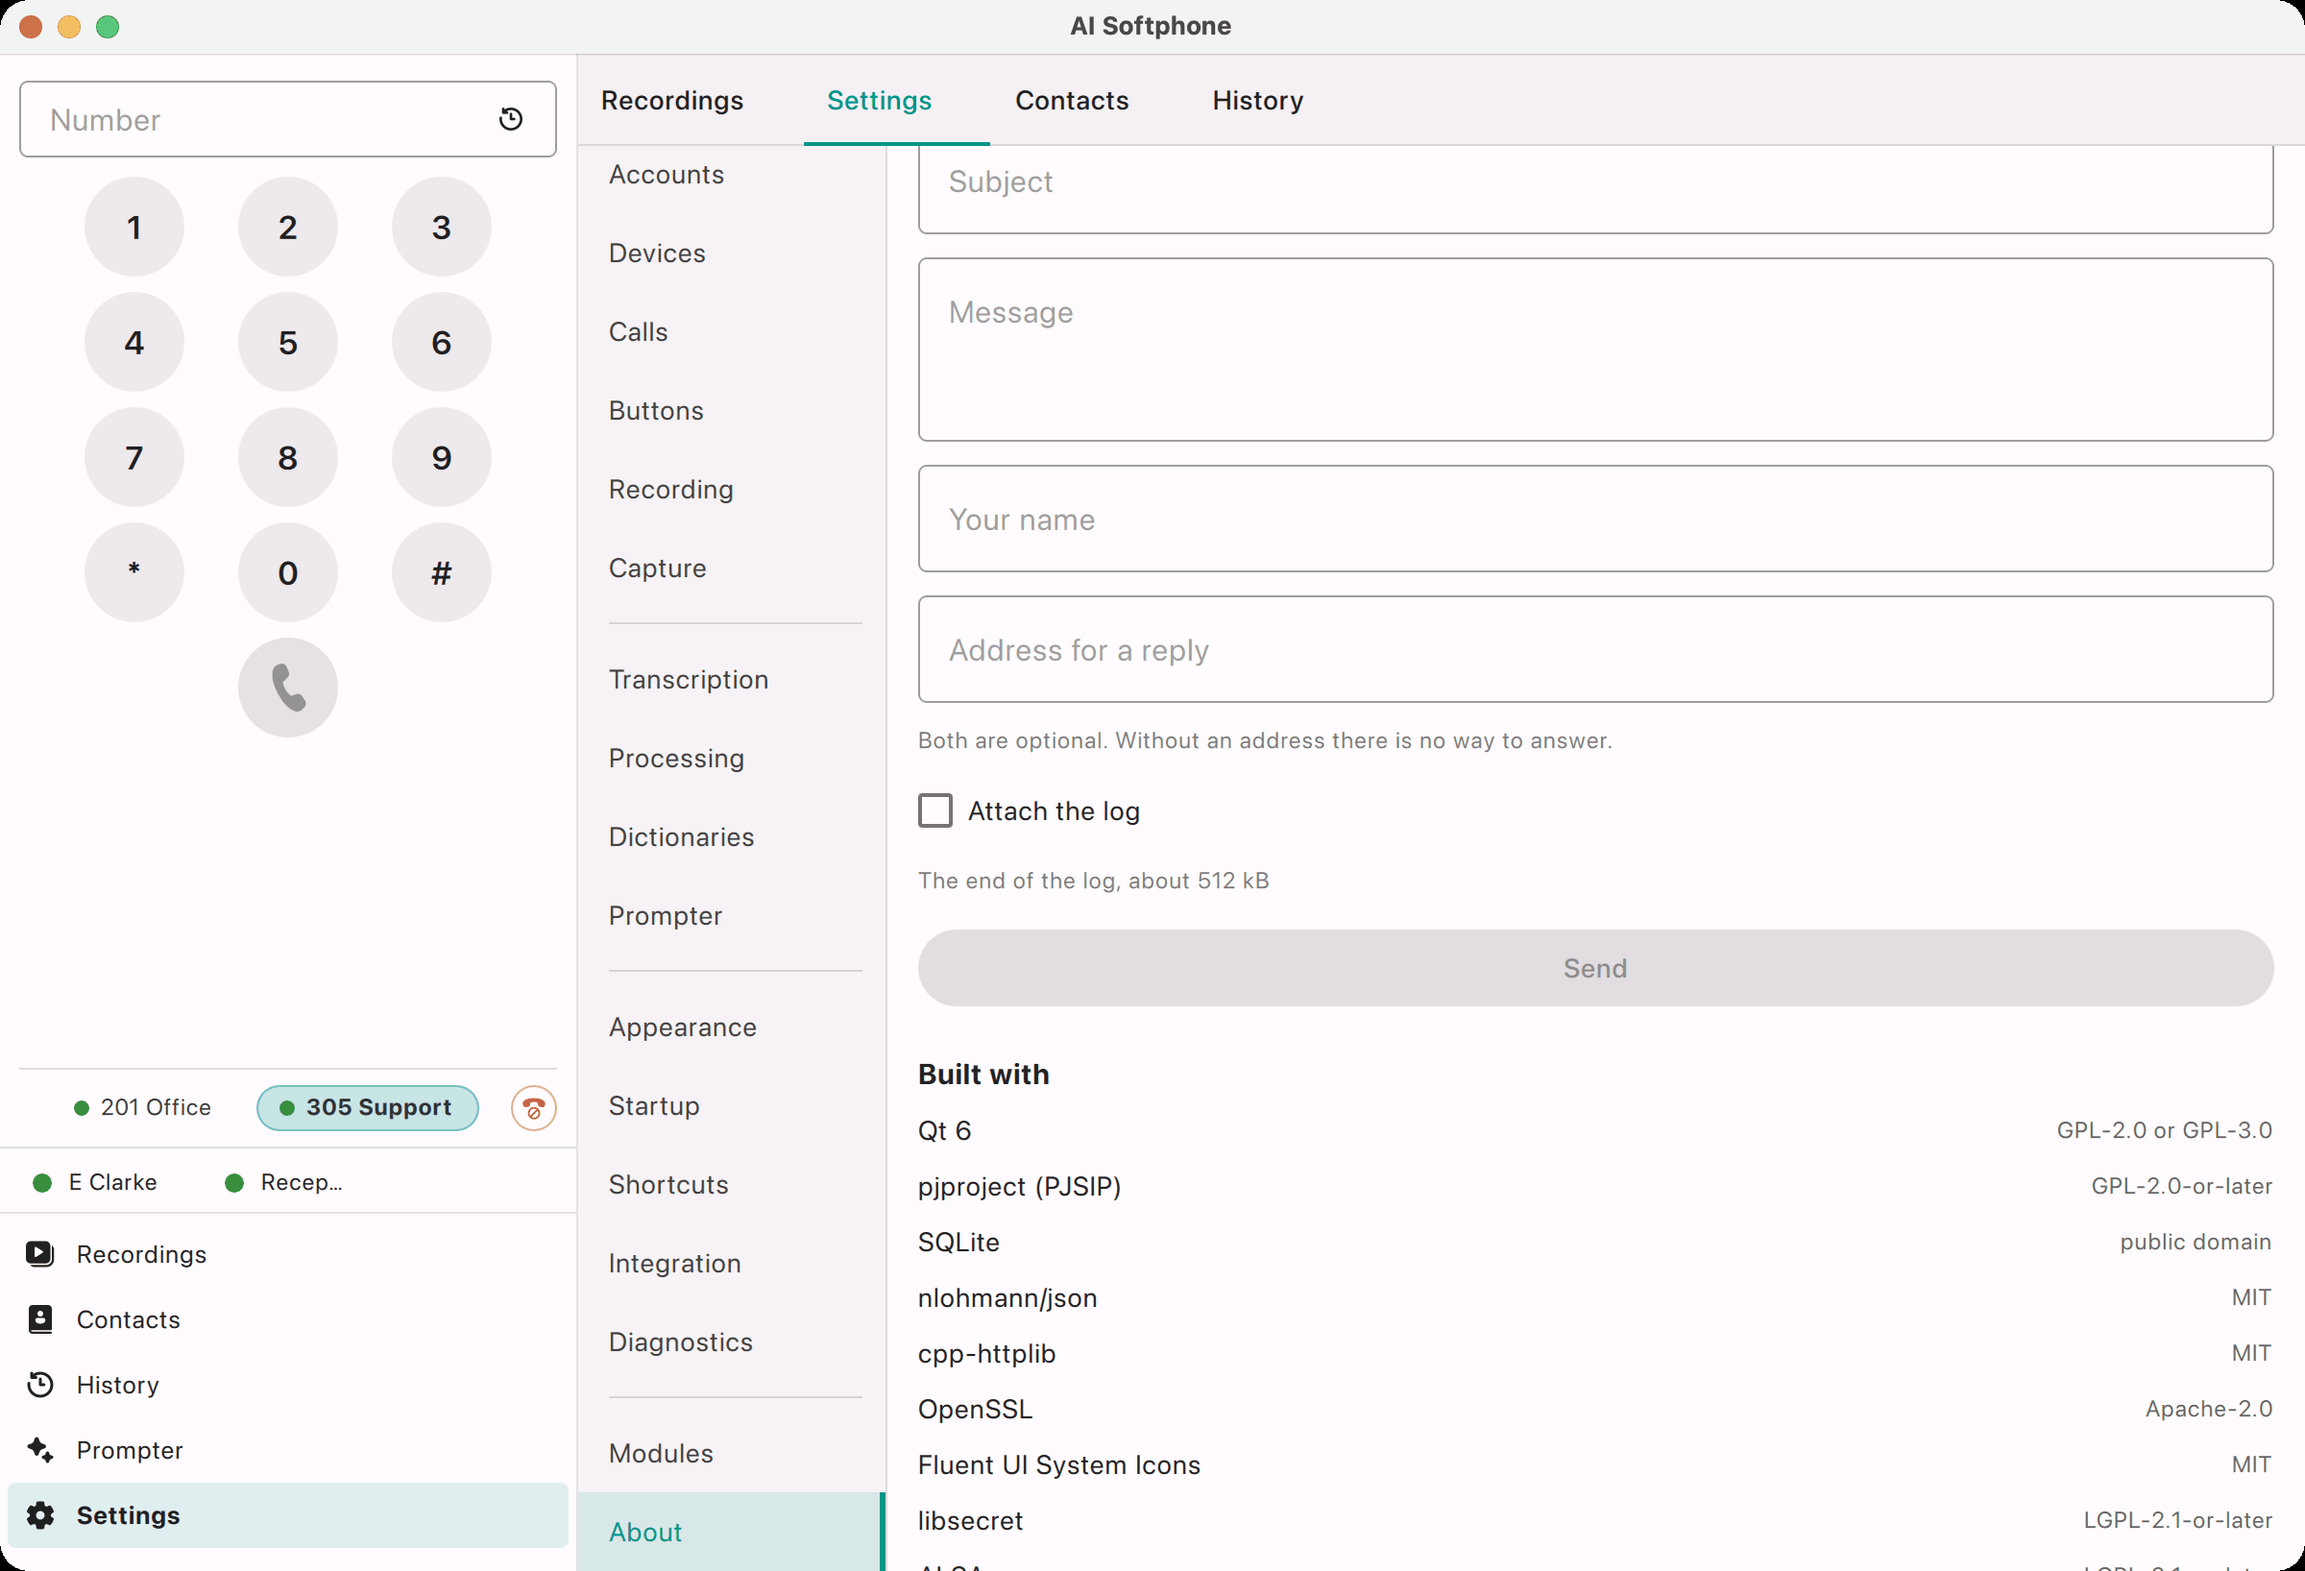
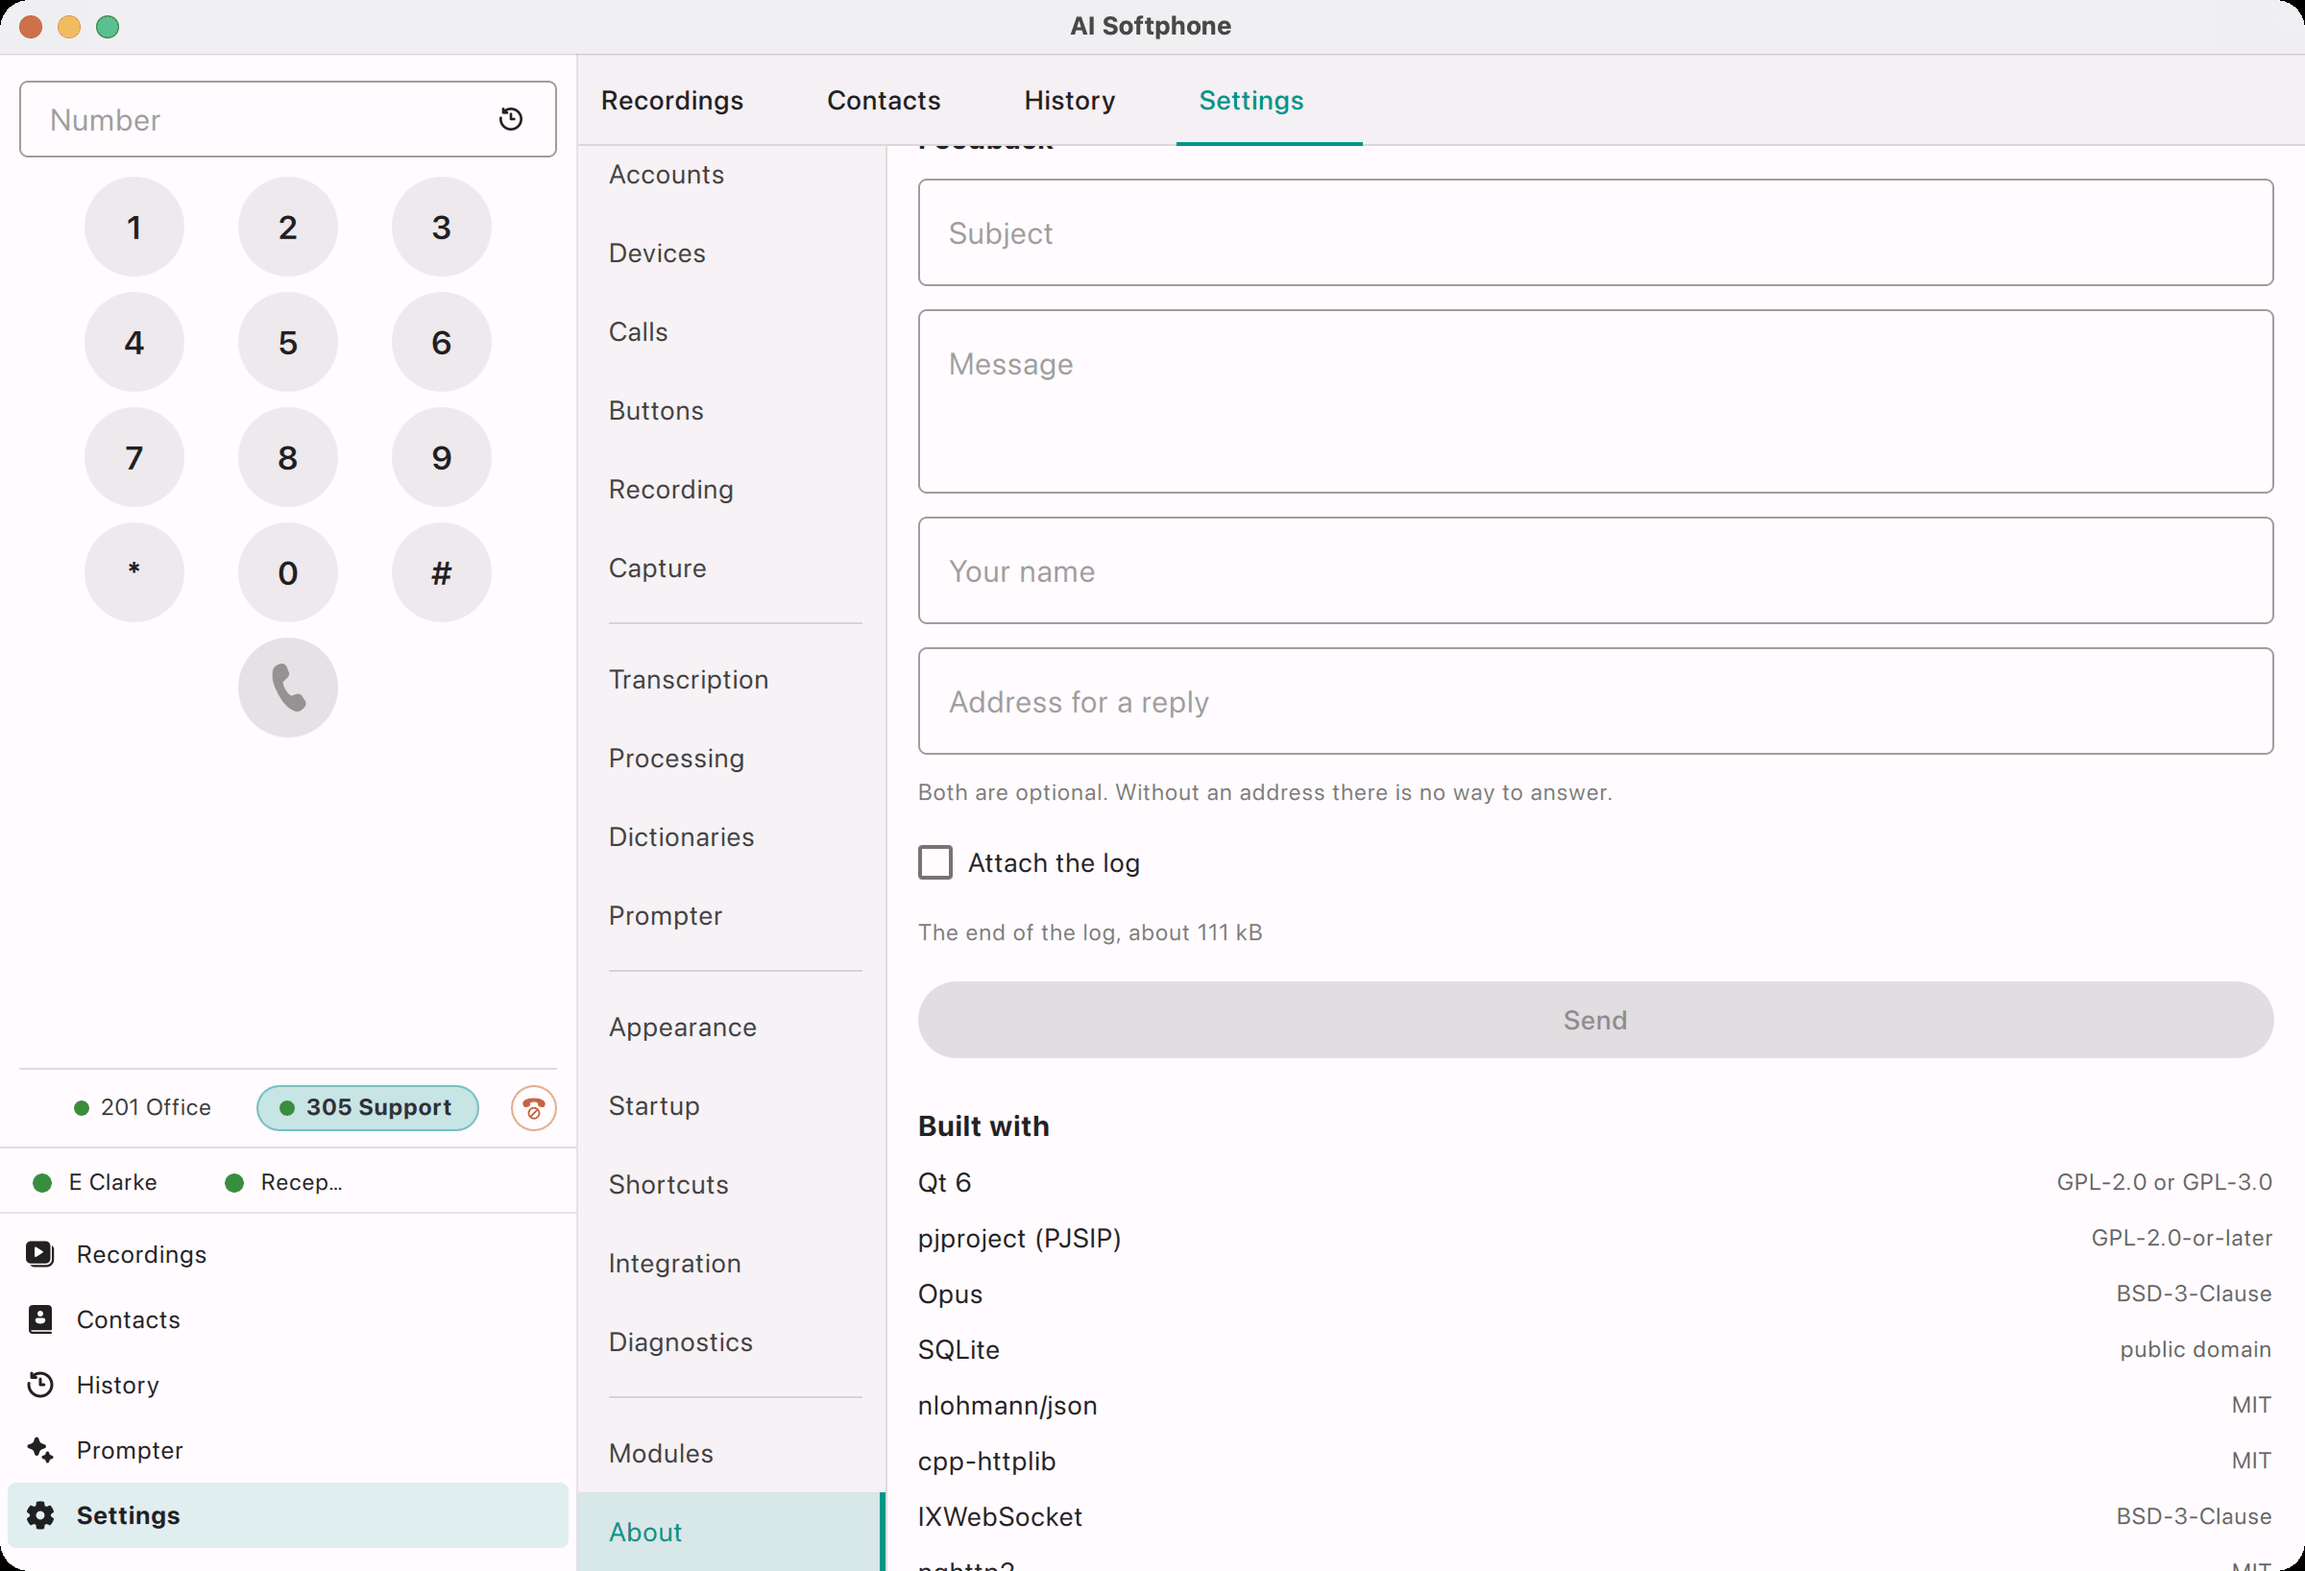
Audit fixes (English): when the prompter appears, About for 1.1.5 (version, components, log size, new shots), token endpoints and errors of the REST API, closing the window without a notification area, number format in Processing

diff --git a/docs/integration/rest-api.md b/docs/integration/rest-api.md
@@ -35,7 +35,7 @@ No separate service is installed and no restart is needed. The part of the progr
 What a program may do depends on whether it changes stored data, not on whether it reads:
 
 - **Without a token**, any program on the computer may read everything in the enabled groups and control calls: place, answer, hang up, hold, resume, transfer and send DTMF.
-- **With the token** in the `Authorization` header, it may also use the endpoints that change what is stored. Without the token those endpoints are neither served nor listed on the API's own page.
+- **With the token** in the `Authorization` header, it may also use the [endpoints that change what is stored](#endpoints-that-need-the-token). Without the token those endpoints are not listed on the API's own page, and they answer `401`. With no token set at all, nothing can change what is stored.
 
 The token is kept in the computer's keyring, not in the settings file, and is never returned by `/settings`.
 
@@ -67,6 +67,20 @@ The base address is `http://127.0.0.1:8377`. The endpoints below need no token.
 | GET | `/accounts` | The SIP accounts and their registration state. Never a password. |
 | GET | `/settings` | The whole configuration, without the secrets. |
 | GET | `/taxonomy` | Categories, tags and red flags, with their codes. |
+
+### Endpoints that need the token
+
+These change what is stored, so each request has to carry the token in the `Authorization` header. The API's own page lists them only to a request that carries it.
+
+| Method | Path | Does |
+| --- | --- | --- |
+| POST | `/contacts` | Adds a contact: `{"name": "...", "number": "...", "account_id": "..."}`; `account_id` is optional. |
+| PUT | `/contacts/{id}` | Replaces a contact. |
+| DELETE | `/contacts/{id}` | Removes a contact. |
+| DELETE | `/history/{id}` | Forgets one call of the call log. |
+| DELETE | `/history` | Forgets the whole call log. It cannot be undone. |
+| PUT | `/accounts/{id}` | Replaces the settings of an account. The password is not among them. |
+| PUT | `/settings` | Replaces the settings. |
 
 Every identifier is a UUID issued by the phone: a call `id` comes from `/calls` or from the answer to `POST /calls`, an account `id` from `/accounts`.
 
@@ -164,6 +178,9 @@ Every error is JSON with a single `error` key, meant for people, not for parsing
 | Status | Body | Meaning |
 | --- | --- | --- |
 | 404 | `{"error":"no such endpoint"}` | The path does not exist, or its access group is off; both give the same answer on purpose. |
+| 405 | `{"error":"that endpoint does not take this method"}` | The path exists, the method does not: for example `POST /settings` instead of `PUT`. |
+| 401 | `{"error":"writing needs a token, and none is configured"}` | An endpoint that changes what is stored, on a phone where no **Token** is set. Set one under **Local control**. |
+| 401 | `{"error":"this endpoint needs the authorization token"}` | An endpoint that changes what is stored, without the right token. |
 | 404 | `{"error":"no contact with that id"}` | The path is right, the identifier is not. |
 | 400 | `{"error":"no call with that id"}` | The call has ended, or never existed. |
 | 400 | `{"error":"a call needs a number"}` | `POST /calls` without a number. Nothing was dialled. |
@@ -203,7 +220,7 @@ Earlier versions used camelCase names and short identifiers. `accountId` is now 
 | --- | --- |
 | Connection refused on `127.0.0.1:8377` | Local control is off, the phone is not running, or the port was changed. |
 | `404 {"error":"no such endpoint"}` for a path on this page | Its access group is off. |
-| Reading works, writing is refused | The endpoints that change stored data need the token in the `Authorization` header. |
+| Reading works, writing is refused with `401` | The endpoints that change stored data need the token in the `Authorization` header, and a **Token** has to be set on the phone first. |
 | Category titles are not in English | Titles follow the interface language. Match on `code` from `/taxonomy`. |
 | `accountId`, `startedAt` or `at` are missing | The integration was written for the earlier names; see above. |
 

diff --git a/docs/application/about.md b/docs/application/about.md
@@ -10,7 +10,7 @@ description: The version, updates, your country, the licence, what the usage rep
 
 ## Version and country
 
-At the top are the name, the **Version** (in the picture 1.1.3), a link to the website, [ai-softphone.com](https://ai-softphone.com/), and one to this documentation.
+At the top are the name, the **Version** (in the picture 1.1.5), a link to the website, [ai-softphone.com](https://ai-softphone.com/), and one to this documentation.
 
 **Country** tells the program where you are. It helps pick the best update server, and opens the way to language and speech services hosted in your country. **Detect automatically** fills it in.
 
@@ -58,10 +58,10 @@ A form that writes to the developers without leaving the program.
 | --- | --- |
 | **Subject** and **Message** | What you want to say. |
 | **Your name** and **Address for a reply** | Both are optional. Without an address there is no way to answer. |
-| **Attach the log** | Adds the end of the log, about 512 kB. See [Diagnostics](/troubleshooting/diagnostics). |
+| **Attach the log** | Adds the end of the log, at most about 512 kB; the line under the box says how much it is now (*about 111 kB* in the picture). See [Diagnostics](/troubleshooting/diagnostics). |
 
 **Send** stays grey until there is something to send.
 
 ## Built with
 
-The components the program is built on, each with its licence: Qt 6 (GPL-2.0 or GPL-3.0), pjproject (PJSIP) (GPL-2.0-or-later), SQLite (public domain), nlohmann/json (MIT), cpp-httplib (MIT), OpenSSL (Apache-2.0), Fluent UI System Icons (MIT), libsecret (LGPL-2.1-or-later), ALSA (LGPL-2.1-or-later) and PulseAudio client (LGPL-2.1-or-later). Each is used under the licence beside it; where a component offers several, the one named is the one taken.
+The components the program is built on, each with its licence: Qt 6 (GPL-2.0 or GPL-3.0), pjproject (PJSIP) (GPL-2.0-or-later), Opus (BSD-3-Clause), SQLite (public domain), nlohmann/json (MIT), cpp-httplib (MIT), IXWebSocket (BSD-3-Clause), nghttp2 (MIT), LAME (LGPL-2.0-or-later), minimp3 (CC0-1.0), OpenSSL (Apache-2.0), Fluent UI System Icons (MIT), libsecret (LGPL-2.1-or-later), ALSA (LGPL-2.1-or-later) and PulseAudio client (LGPL-2.1-or-later). Each is used under the licence beside it; where a component offers several, the one named is the one taken.

diff --git a/docs/interface/prompter.md b/docs/interface/prompter.md
@@ -10,7 +10,7 @@ The **Prompter** listens to a conversation while it is happening. In a window of
 
 In the picture the **Objections on a call** assistant is listening to a sales call. The left column is what was said, each line with its time and its side; the right one is what the model suggested about each reply of the customer; the newest suggestion is repeated in large type above the two.
 
-**Prompter** appears in the list at the foot of the phone, between **History** and **Settings**, once three things are in place: the prompter is allowed, there is a recogniser that can listen while a conversation happens, and — for the assistants that suggest something — a language model. All of them are set up in [Settings → Prompter](/ai-processing/prompter), which also holds the text size and the assistants themselves.
+**Prompter** appears in the list at the foot of the phone, between **History** and **Settings**, once three things are in place: the prompter is allowed, there is a recogniser that can listen while a conversation happens, and there is a language model, which the assistants that suggest something ask. All of them are set up in [Settings → Prompter](/ai-processing/prompter), which also holds the text size and the assistants themselves.
 
 ## The window
 

diff --git a/docs/interface/main-window.md b/docs/interface/main-window.md
@@ -38,7 +38,7 @@ Below the chips there are the [buttons](../sip-accounts/buttons.md) you made for
 
 ### Recordings, Contacts, History, Prompter, Settings
 
-These entries at the bottom open a tab on the right, next to each other: [Recordings](../interface/recordings.md), [Contacts and History](contacts-history.md), the [Prompter](prompter.md) and [Settings](settings-overview.md). **Prompter** is there only once the prompter is allowed and has a recogniser to listen with. Tabs you have opened stay in the row at the top of the right-hand side.
+These entries at the bottom open a tab on the right, next to each other: [Recordings](../interface/recordings.md), [Contacts and History](contacts-history.md), the [Prompter](prompter.md) and [Settings](settings-overview.md). **Prompter** is there only once three things are in place: the prompter is allowed, a recogniser that can listen while a conversation happens has passed its **Test**, and so has a language model — see [Prompter settings](../ai-processing/prompter.md#what-it-needs). Tabs you have opened stay in the row at the top of the right-hand side.
 
 ## A call in progress
 

diff --git a/docs/program/startup.md b/docs/program/startup.md
@@ -17,7 +17,7 @@ description: "Start the phone with the computer, keep it running when its window
 
 ## Close
 
-**Keep the phone running when the window is closed**, on by default. A closed window is not a hung-up phone: calls still arrive, and the icon in the notification area (the menu bar on macOS) brings the window back. Turn this off and closing the window quits the program.
+**Keep the phone running when the window is closed**, on by default. A closed window is not a hung-up phone: calls still arrive, and the icon in the notification area (the menu bar on macOS) brings the window back. On a desktop that has no notification area, such as GNOME without an extension for status icons, the phone waits minimised in the task bar instead, and the line under the switch says so. Turn this off and closing the window quits the program.
 
 ## Call links
 

diff --git a/docs/ai-processing/processing.md b/docs/ai-processing/processing.md
@@ -49,7 +49,7 @@ The order matters: the last two rules need the category that the rule before the
 
 <Shot name="12d_settings_processing_spending" alt="Settings → Processing: the spending of the month and the two limits" />
 
-Under **Spending** the program shows what has been spent this month and on how many requests — *Nothing has been processed this month* in the picture, and for example *This month: 40.492 tokens, over 84 request(s), at no charge* once something has.
+Under **Spending** the program shows what has been spent this month and on how many requests — *Nothing has been processed this month* in the picture, and for example *This month: 40,492 tokens, over 84 request(s), at no charge* once something has.
 
 | Field | Meaning |
 | --- | --- |

diff --git a/docs/troubleshooting/common-problems.md b/docs/troubleshooting/common-problems.md
@@ -63,7 +63,7 @@ If the window opens but the prompter does not start, the line under its buttons 
 
 ## The phone disappeared when I closed the window
 
-With **Keep the phone running when the window is closed** on, the phone is still running, and calls still arrive. The icon in the notification area (the menu bar on macOS) brings the window back. See [Startup](/program/startup).
+With **Keep the phone running when the window is closed** on, the phone is still running, and calls still arrive. The icon in the notification area (the menu bar on macOS) brings the window back; on a desktop without a notification area the phone is minimised in the task bar. See [Startup](/program/startup).
 
 ## A phone number in a browser or a CRM does not call
 
